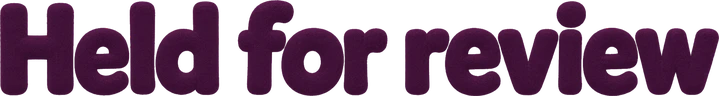
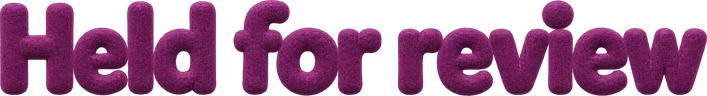
Header tabs: Codex's own plum and navy letters for every state

diff --git a/dashboard/app/page.tsx b/dashboard/app/page.tsx
@@ -87,7 +87,7 @@ export default function Page() {
         <nav>
           {Object.entries(PAGE_TITLES).map(([id, text]) => (
             <button key={id} className={id === pageId ? 'active' : ''} aria-current={id === pageId ? 'page' : undefined} onClick={() => openPage(id)}>
-              {/* Codex's felt letters (docs/gorseller/site-tasarim/tabs-text-v2/), navy and plum for the current page */}
+              {/* Codex's felt letters (docs/gorseller/site-tasarim/tabs-text-v2, v3): navy, plum for the current page */}
               {/* eslint-disable-next-line @next/next/no-img-element */}
               <img src={`buttons/nav-${id}${id === pageId ? '-on' : ''}.webp`} alt={text} />
             </button>
